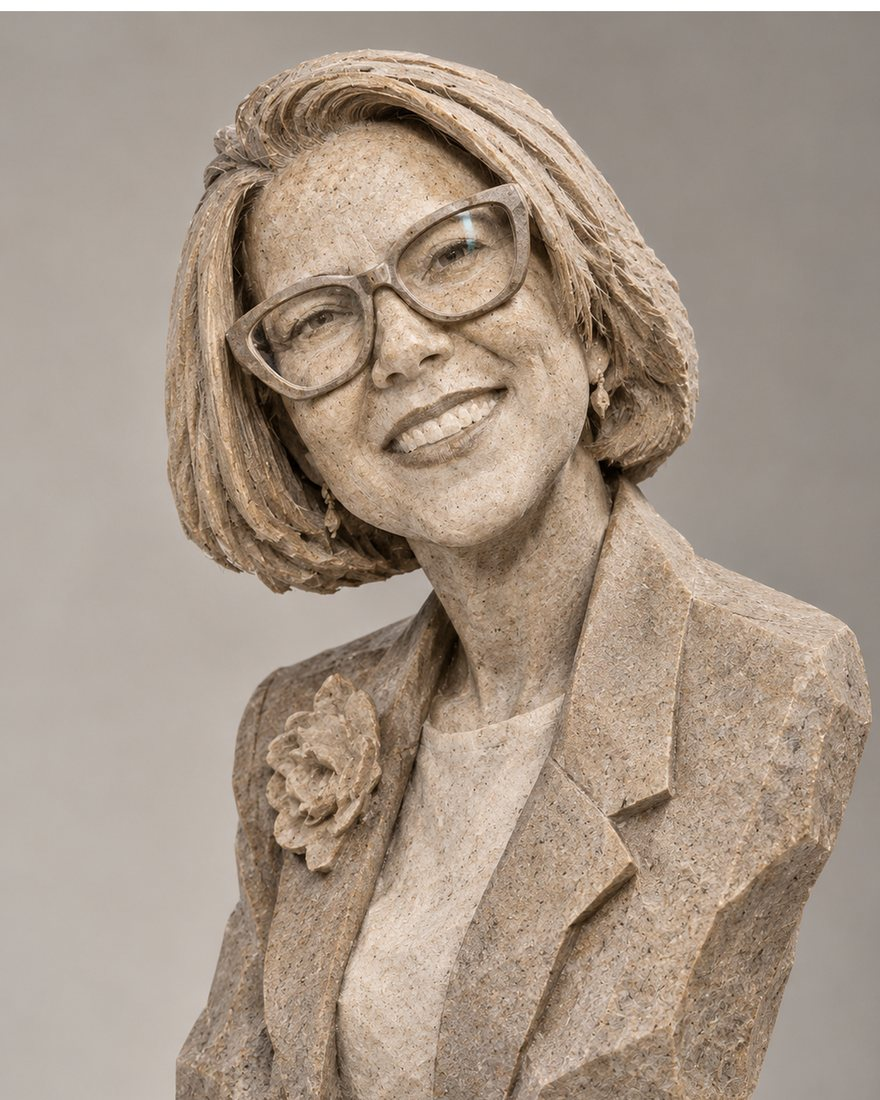
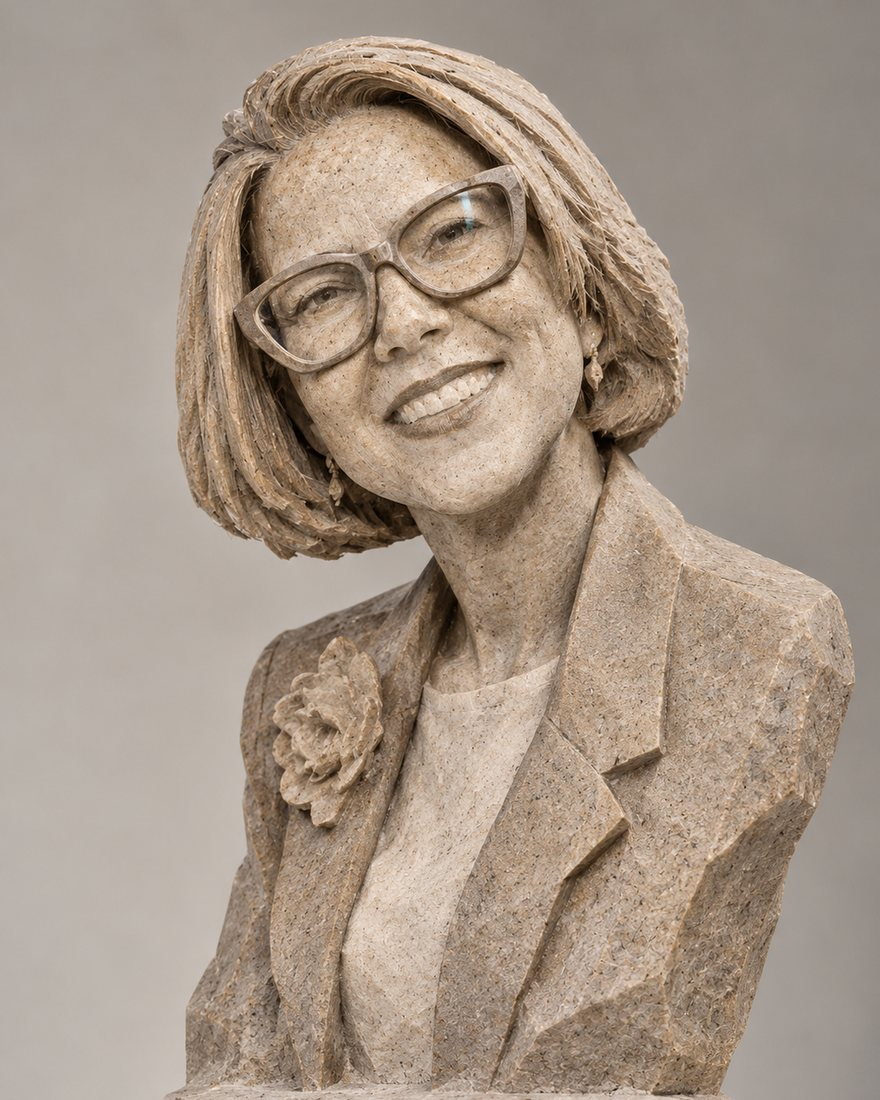
Trim the sheet margin off the stone portrait
The A4 page carried 100px of white above the photograph, which read
as a line across the top of the frame. The credit line under it
drops to 12px.

diff --git a/css/styles.css b/css/styles.css
@@ -700,7 +700,7 @@ main {
 /* The portrait is not a photograph, and says so. */
 .about-header__credit {
   margin-top: var(--space-sm);
-  font-size: var(--text-s);
+  font-size: 0.75rem;
   letter-spacing: var(--tracking-meta);
   text-transform: uppercase;
   color: var(--color-text-muted);
